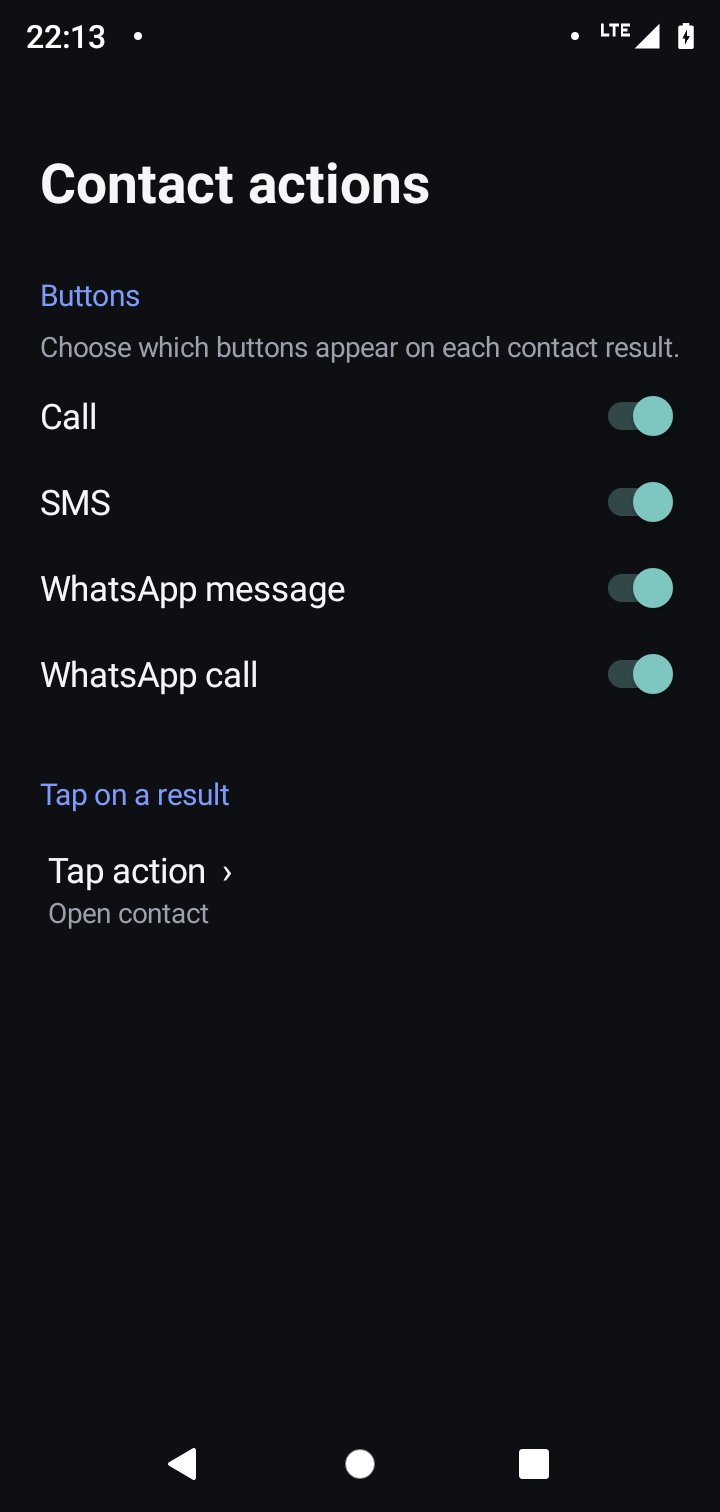
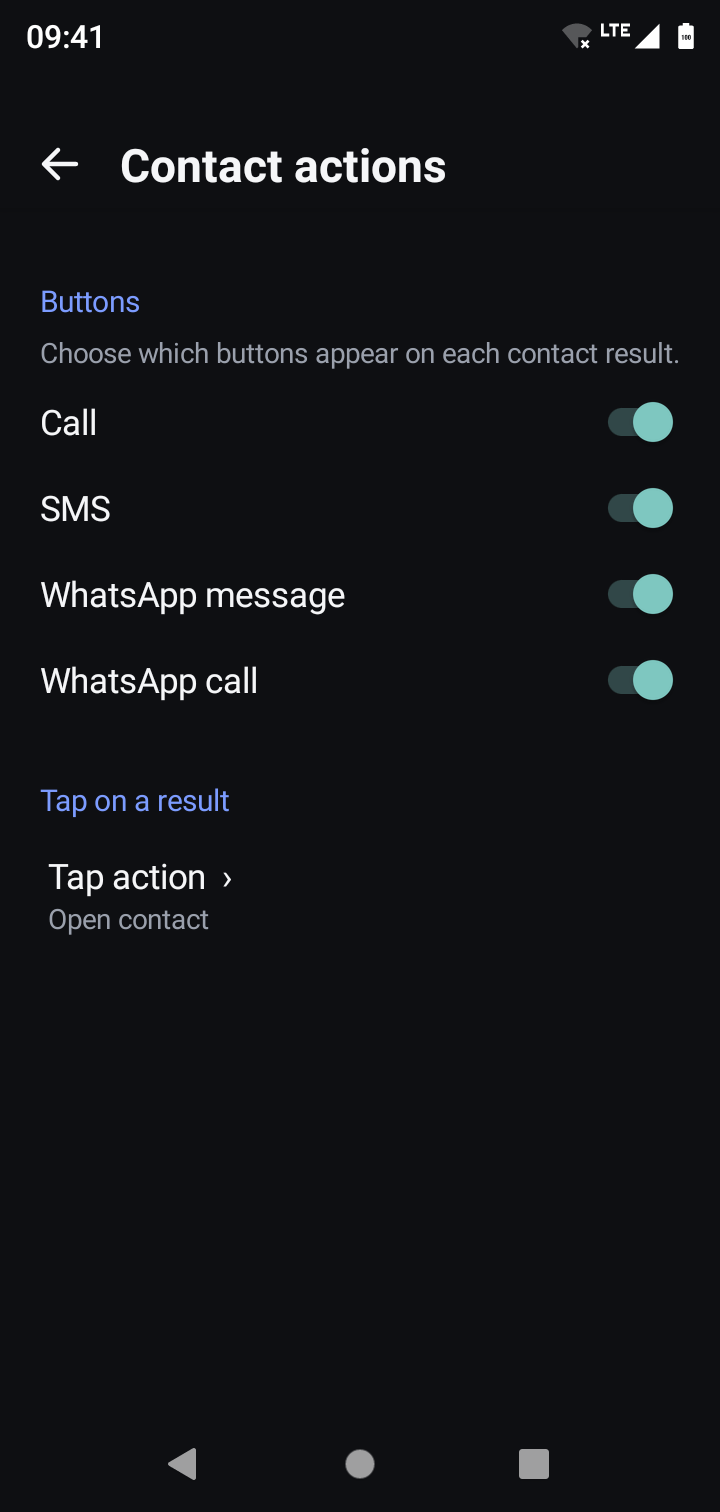
Fresh screenshots, collage and social preview; background spans system bars

diff --git a/docs/index.html b/docs/index.html
@@ -119,7 +119,7 @@ footer{border-top:1px solid var(--line);padding:28px 0 48px;color:var(--muted);t
     </div>
     <div class="phones">
       <img src="screenshots/05-calculator.png" width="720" height="1512" alt="Piko inline calculator answering 12*8+4 = 100">
-      <img src="screenshots/01-home.png" width="720" height="1512" alt="Piko home screen with an icon grid">
+      <img src="screenshots/01-home.png" width="720" height="1512" alt="Piko home screen with an icon grid on a gradient background">
     </div>
   </div>
 
@@ -145,17 +145,20 @@ footer{border-top:1px solid var(--line);padding:28px 0 48px;color:var(--muted);t
     <h2>Screenshots</h2>
     <p class="sub">Captured on a Moto G7 Play.</p>
     <div class="gallery">
-      <figure><img loading="lazy" width="720" height="1512" src="screenshots/01-home.png" alt="Piko home grid"><figcaption>Home grid</figcaption></figure>
-      <figure><img loading="lazy" width="720" height="1512" src="screenshots/02-home-icon-menu.png" alt="Long-press menu with app info, rename, uninstall and remove"><figcaption>Long-press menu</figcaption></figure>
-      <figure><img loading="lazy" width="720" height="1512" src="screenshots/03-add-menu.png" alt="Menu to add apps and widgets"><figcaption>Add apps &amp; widgets</figcaption></figure>
+      <figure><img loading="lazy" width="720" height="1512" src="screenshots/01-home.png" alt="Piko home grid with a gradient background"><figcaption>Home grid</figcaption></figure>
+      <figure><img loading="lazy" width="720" height="1512" src="screenshots/02-home-icon-menu.png" alt="Drag bar with remove, uninstall, info, edit and rename"><figcaption>Drag bar</figcaption></figure>
+      <figure><img loading="lazy" width="720" height="1512" src="screenshots/03-overview.png" alt="Page overview with page strip"><figcaption>Overview</figcaption></figure>
       <figure><img loading="lazy" width="720" height="1512" src="screenshots/04-app-search.png" alt="App search results with highlighted matches"><figcaption>App search</figcaption></figure>
+      <figure><img loading="lazy" width="720" height="1512" src="screenshots/09-contacts.png" alt="Contact result expanded into action chips"><figcaption>Contact actions</figcaption></figure>
       <figure><img loading="lazy" width="720" height="1512" src="screenshots/05-calculator.png" alt="Inline calculator"><figcaption>Calculator</figcaption></figure>
-      <figure><img loading="lazy" width="720" height="1512" src="screenshots/06-currency.png" alt="Inline currency conversion from USD to EUR"><figcaption>Currency conversion</figcaption></figure>
-      <figure><img loading="lazy" width="720" height="1512" src="screenshots/07-web-search.png" alt="Search the web row with Google, Brave, DuckDuckGo, ChatGPT and Claude buttons"><figcaption>Web &amp; AI search</figcaption></figure>
+      <figure><img loading="lazy" width="720" height="1512" src="screenshots/06-currency.png" alt="Inline currency conversion from USD to EUR"><figcaption>Currency</figcaption></figure>
+      <figure><img loading="lazy" width="720" height="1512" src="screenshots/07-web-search.png" alt="Search the web row with Google, Brave, DuckDuckGo, ChatGPT and Claude"><figcaption>Web &amp; AI</figcaption></figure>
+      <figure><img loading="lazy" width="720" height="1512" src="screenshots/15-website.png" alt="Typed address as an Open website result"><figcaption>Websites</figcaption></figure>
+      <figure><img loading="lazy" width="720" height="1512" src="screenshots/16-edit-shortcut.png" alt="Edit shortcut dialog"><figcaption>Edit shortcuts</figcaption></figure>
+      <figure><img loading="lazy" width="720" height="1512" src="screenshots/14-background.png" alt="Background settings with gradient"><figcaption>Backgrounds</figcaption></figure>
       <figure><img loading="lazy" width="720" height="1512" src="screenshots/08-settings.png" alt="Layout and behaviour settings"><figcaption>Settings</figcaption></figure>
       <figure><img loading="lazy" width="720" height="1512" src="screenshots/10-search-settings.png" alt="Search source toggles"><figcaption>Search sources</figcaption></figure>
-      <figure><img loading="lazy" width="720" height="1512" src="screenshots/11-web-search-engines.png" alt="Reorderable list of web search engines and AI chats"><figcaption>Engines &amp; AI chats</figcaption></figure>
-      <figure><img loading="lazy" width="720" height="1512" src="screenshots/12-contact-actions.png" alt="Contact action button settings"><figcaption>Contact actions</figcaption></figure>
+      <figure><img loading="lazy" width="720" height="1512" src="screenshots/11-web-search-engines.png" alt="Reorderable list of web search engines and AI chats"><figcaption>Engines</figcaption></figure>
       <figure><img loading="lazy" width="720" height="1512" src="screenshots/13-hidden-apps.png" alt="Hidden apps screen"><figcaption>Hidden apps</figcaption></figure>
     </div>
   </section>

diff --git a/app/src/main/java/com/piko/launcher/core/Background.java b/app/src/main/java/com/piko/launcher/core/Background.java
@@ -57,7 +57,11 @@ public final class Background {
         if (bg == null) return;
         boolean wallpaper = prefs.bgMode() == Prefs.BG_WALLPAPER;
         if (wallpaper) activity.getWindow().addFlags(WindowManager.LayoutParams.FLAG_SHOW_WALLPAPER);
-        activity.getWindow().setBackgroundDrawable(new ColorDrawable(Color.TRANSPARENT));
-        root.setBackground(bg);
+        // The window background fills the whole screen, so the system bars (made transparent) show it too.
+        activity.getWindow().setBackgroundDrawable(bg);
+        activity.getWindow().setStatusBarColor(Color.TRANSPARENT);
+        activity.getWindow().setNavigationBarColor(Color.TRANSPARENT);
+        if (android.os.Build.VERSION.SDK_INT >= 29) activity.getWindow().setNavigationBarContrastEnforced(false);
+        root.setBackground(null);
     }
 }

diff --git a/README.md b/README.md
@@ -25,7 +25,7 @@
 </p>
 
 <p align="center">
-  <img src="docs/assets/collage.png" alt="Piko launcher screenshots on a Moto G7 Play: home grid, app search, calculator, currency conversion, web search and settings">
+  <img src="docs/assets/collage.png" alt="Piko launcher screenshots on a Moto G7 Play: home with gradient background, contact actions, calculator, web search, background settings and page overview">
 </p>
 
 Piko opens on a search bar. Type a few letters and launch an app, call a contact, do the maths,
@@ -95,21 +95,29 @@ reach a clean, configurable icon grid. That's it.
 
 All captured on a **Moto G7 Play** (720×1512).
 
-| Home | Long-press menu | Overview |
+| Home | Drag bar | Overview |
 |---|---|---|
-| <img src="docs/screenshots/01-home.png" width="220" alt="Piko home grid"> | <img src="docs/screenshots/02-home-icon-menu.png" width="220" alt="Home icon context menu"> | <img src="docs/screenshots/03-add-menu.png" width="220" alt="Page overview"> |
+| <img src="docs/screenshots/01-home.png" width="220" alt="Piko home grid with a gradient background"> | <img src="docs/screenshots/02-home-icon-menu.png" width="220" alt="Drag an icon to the top for remove, uninstall, info, edit and rename"> | <img src="docs/screenshots/03-overview.png" width="220" alt="Page overview with page strip"> |
 
-| App search | Calculator | Currency |
+| App search | Contact actions | Website |
 |---|---|---|
-| <img src="docs/screenshots/04-app-search.png" width="220" alt="App search results"> | <img src="docs/screenshots/05-calculator.png" width="220" alt="Inline calculator"> | <img src="docs/screenshots/06-currency.png" width="220" alt="Inline currency conversion"> |
+| <img src="docs/screenshots/04-app-search.png" width="220" alt="App search results"> | <img src="docs/screenshots/09-contacts.png" width="220" alt="Contact result expanded into call, SMS and WhatsApp chips"> | <img src="docs/screenshots/15-website.png" width="220" alt="Typed address as an Open website result"> |
 
-| Web &amp; AI search | Settings | Search sources |
+| Calculator | Currency | Web &amp; AI search |
 |---|---|---|
-| <img src="docs/screenshots/07-web-search.png" width="220" alt="Search-the-web row with multiple engines"> | <img src="docs/screenshots/08-settings.png" width="220" alt="Layout and behaviour settings"> | <img src="docs/screenshots/10-search-settings.png" width="220" alt="Search source toggles"> |
+| <img src="docs/screenshots/05-calculator.png" width="220" alt="Inline calculator"> | <img src="docs/screenshots/06-currency.png" width="220" alt="Inline currency conversion"> | <img src="docs/screenshots/07-web-search.png" width="220" alt="Search-the-web row with multiple engines"> |
 
-| Engines &amp; AI chats | Contact actions | Hidden apps |
+| Edit shortcut | Edit app | Background |
 |---|---|---|
-| <img src="docs/screenshots/11-web-search-engines.png" width="220" alt="Reorderable web search engines and AI chats"> | <img src="docs/screenshots/12-contact-actions.png" width="220" alt="Contact result buttons and tap action"> | <img src="docs/screenshots/13-hidden-apps.png" width="220" alt="Hidden apps list"> |
+| <img src="docs/screenshots/16-edit-shortcut.png" width="220" alt="Edit shortcut dialog"> | <img src="docs/screenshots/17-app-edit.png" width="220" alt="Rename, tags and icon for an app"> | <img src="docs/screenshots/14-background.png" width="220" alt="Background settings with gradient"> |
+
+| Settings | Search sources | Engines &amp; AI chats |
+|---|---|---|
+| <img src="docs/screenshots/08-settings.png" width="220" alt="Layout and behaviour settings"> | <img src="docs/screenshots/10-search-settings.png" width="220" alt="Search source toggles"> | <img src="docs/screenshots/11-web-search-engines.png" width="220" alt="Reorderable web search engines and AI chats"> |
+
+| Contact buttons | Hidden apps |
+|---|---|
+| <img src="docs/screenshots/12-contact-actions.png" width="220" alt="Contact result buttons and tap action"> | <img src="docs/screenshots/13-hidden-apps.png" width="220" alt="Hidden apps list"> |
 
 ## Install
 
